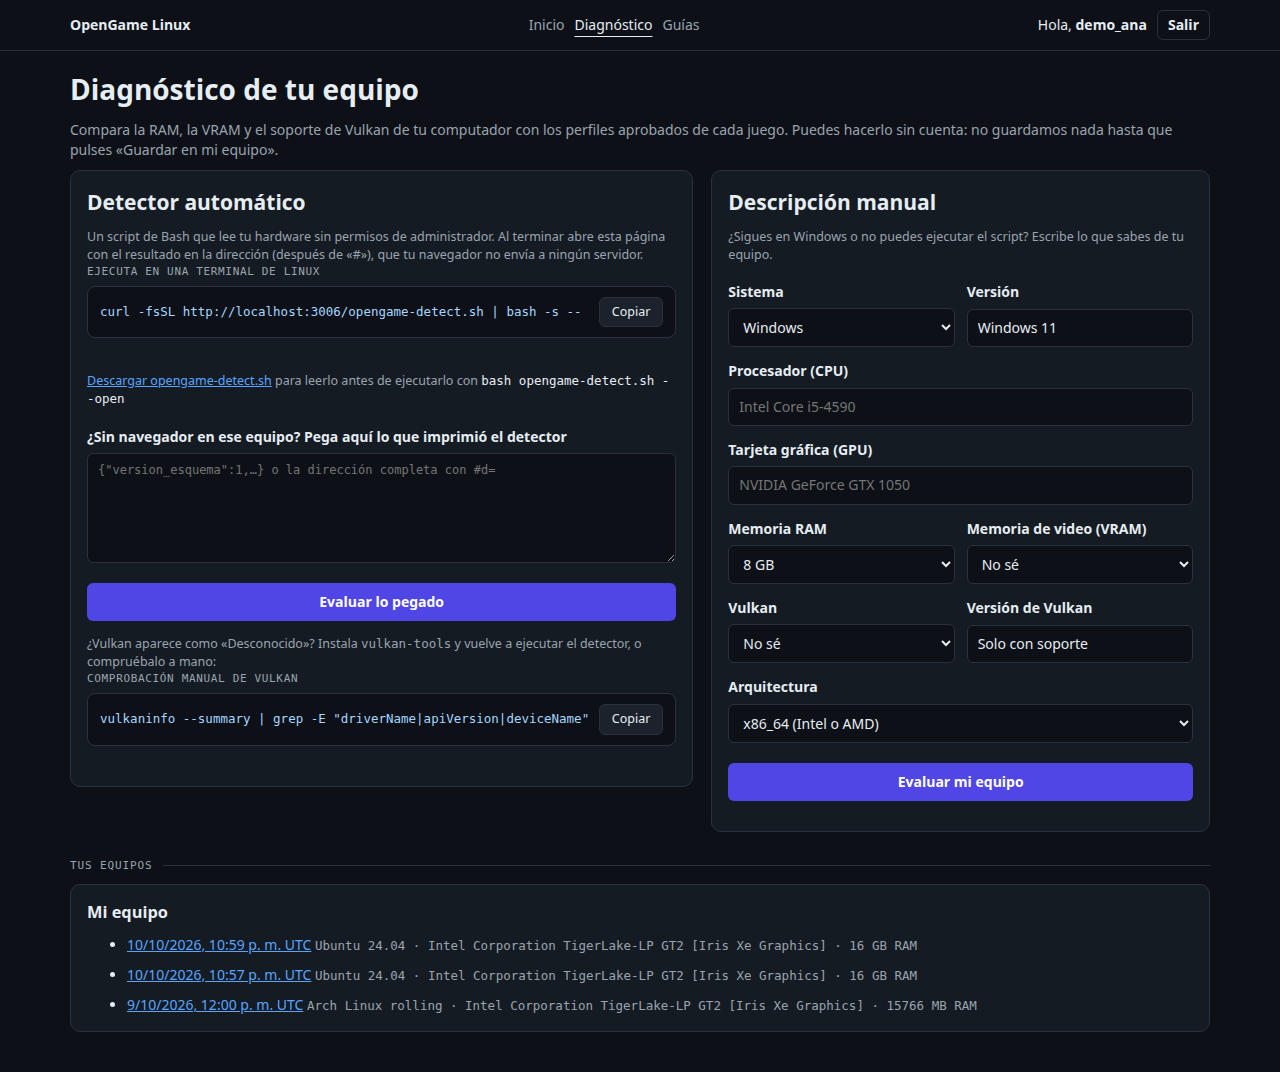
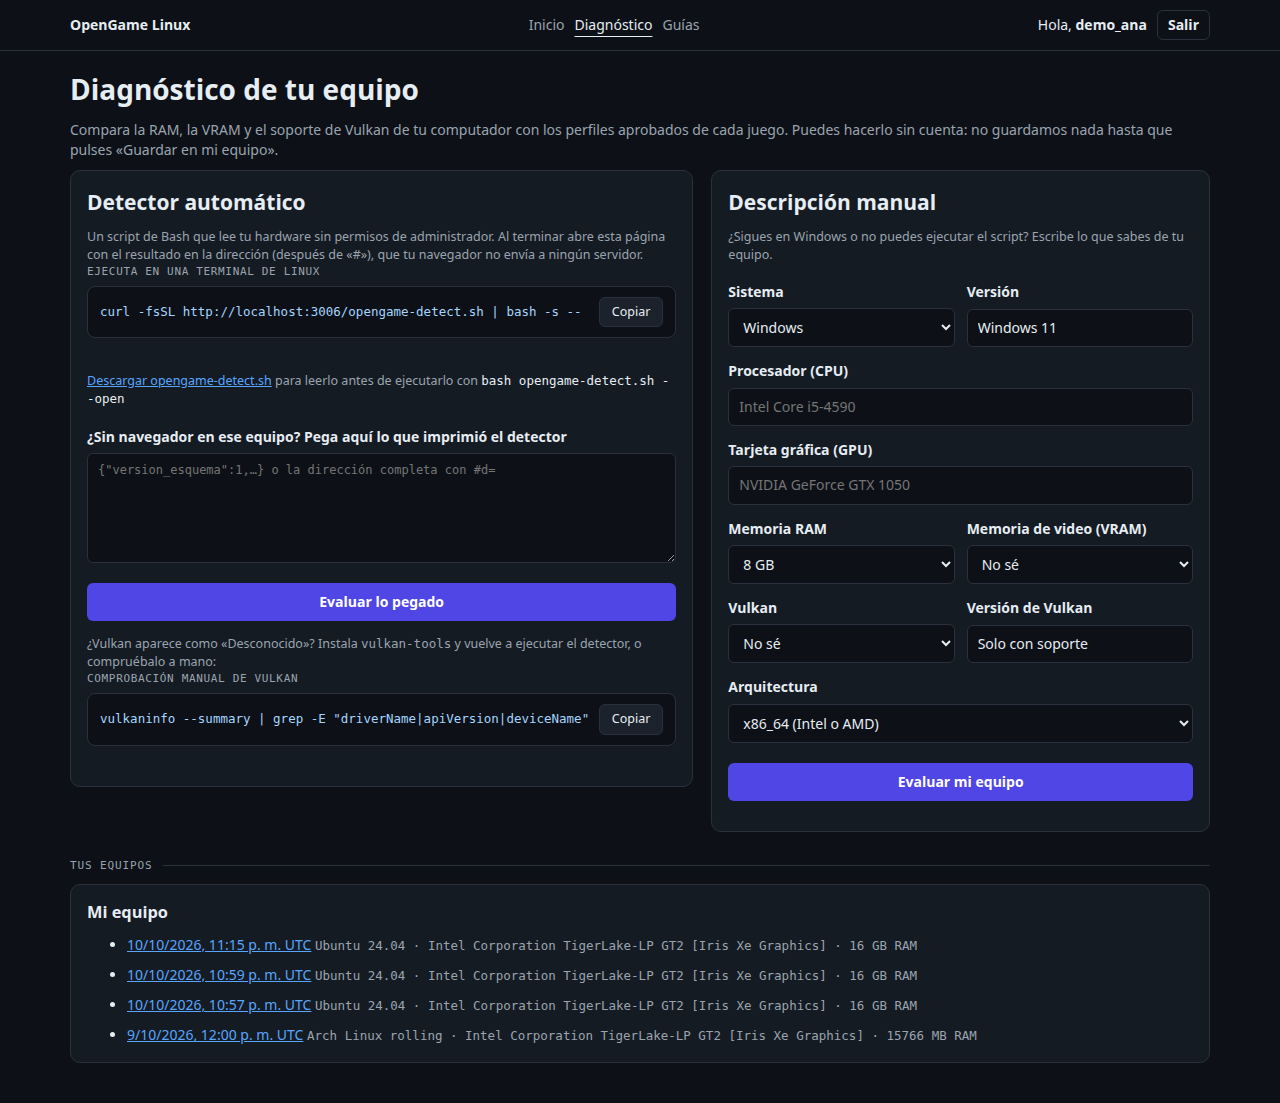
docs(arquitectura): reconcile RATIONALE with what U6 built; refresh U6 captures

diff --git a/docs/architecture/RATIONALE.md b/docs/architecture/RATIONALE.md
@@ -220,6 +220,17 @@ Once a unit lands, its code is authoritative and the sketch is history. The rule
 - **Retired profiles and the evidence that used them.** An approved report keeps its profile's name in the matrix after the profile is retired, because the test ran with it. An approved solution that recommends a retired profile is hidden (8.9 "comprueba la vigencia").
 - **`tests/consultas.test.ts` writes approved rows with direct SQL.** U3 seeds no approved report, and the fronteras single-writer test scans `src/` and `scripts/` only. The rows satisfy the review-block CHECK and roll back with the test.
 
+**U6** departs from the sketch as follows.
+
+- **`servidor/aportes/diagnostico.ts` is the single writer of `equipo` and `diagnostico`**, not `aportes.ts`, so lanes U5 and U6 never share a file. `src/fronteras.test.ts` fails on an `INSERT INTO`/`UPDATE` of either table anywhere else.
+- **Saving converges.** `registrarDiagnostico` locks the user's row, reuses the user's equipo with the same alias (case-insensitive) for `nuevo`, and returns `{ id, nuevo }`. A double click, a retry or a re-import of the same payload leaves one equipo and one diagnostico.
+- **Column limits are checked in `capturaDe`.** `Captura` in `dominio/aportes.ts` has unbounded text, so `servidor/diagnostico/payload.ts` checks the `tablas.ts` limits and answers `campo_invalido` instead of an SQL error at INSERT. The parser also names a null `cpu_modelo` "CPU no detectada" (ARM kernels).
+- **The manual form has its own schema**, `FormularioManual` in `routes/diagnostico/-entrada.ts`. It covers only what a person types, with the column limits, and `entradaManual` turns it into a `Captura` taken now. Nullable selects post `"null"` ("No sé").
+- **Paste and manual entries are evaluated twice.** `/diagnostico` evaluates first, so a bad paste keeps its error under the box. Then `/diagnostico/importar` evaluates again from sessionStorage. That page owns the result and the save. The read is cheap, and one result page is simpler than two.
+- **`/entrar` and `/registro` accept `?volver=`** from a closed list (`/diagnostico/importar`), so a guest who signs in to save returns to the unsaved result.
+- **The public origin comes from `BETTER_AUTH_URL`** (`servidor/origen.ts`), with the request URL only as a dev fallback. `origenFn` and `/opengame-detect.sh` use it for the `curl … | bash` command. That route is allowlisted in `fronteras.test.ts`, like `/api/auth/$`.
+- **The detector route imports the script inside its handler.** In a measured check, Start already stripped the handler from the client build even with a module-scope import. The bundle guard fails on `mem_info_vram_total` reaching the client, and a planted import in a component made it fail.
+
 ## Open questions and risks
 
 1. Does `Schema.fromFormData(Schema.toCodecStringTree(S))` decode the report form's nested shape (`fallos[0][tipo_fallo_id]`, the `version_capa[_tag]` union, a null `perfil_id`) at runtime? It typechecks. If not, U0 falls back to a controlled form object decoded with plain `Schema.decodeUnknownResult(S)`, and the hook signature stays the same.
